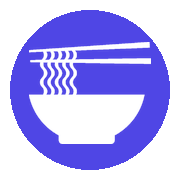
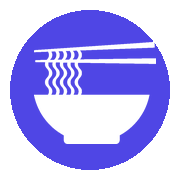
Nudge bowl right, clip chopsticks at circle edge

diff --git a/gen_icon.py b/gen_icon.py
@@ -43,10 +43,16 @@ def make_icon(source_path, size):
     new_h = int(white_layer.height * ratio)
     white_layer = white_layer.resize((new_w, new_h), Image.LANCZOS)
 
-    # Center on circle
-    ox = int(cx - new_w / 2)
-    oy = int(cy - new_h / 2) + int(size * 0.02)  # slight downward nudge to visually center
+    # Center on circle, nudge right so the bowl body is visually centered
+    ox = int(cx - new_w / 2) + int(size * 0.03)
+    oy = int(cy - new_h / 2) + int(size * 0.02)
     img.paste(white_layer, (ox, oy), white_layer)
+
+    # Clip anything outside the circle to keep it clean
+    circle_mask = Image.new("L", (size, size), 0)
+    dm = ImageDraw.Draw(circle_mask)
+    dm.ellipse([cx - r, cy - r, cx + r, cy + r], fill=255)
+    img.putalpha(circle_mask)
 
     return img
 
